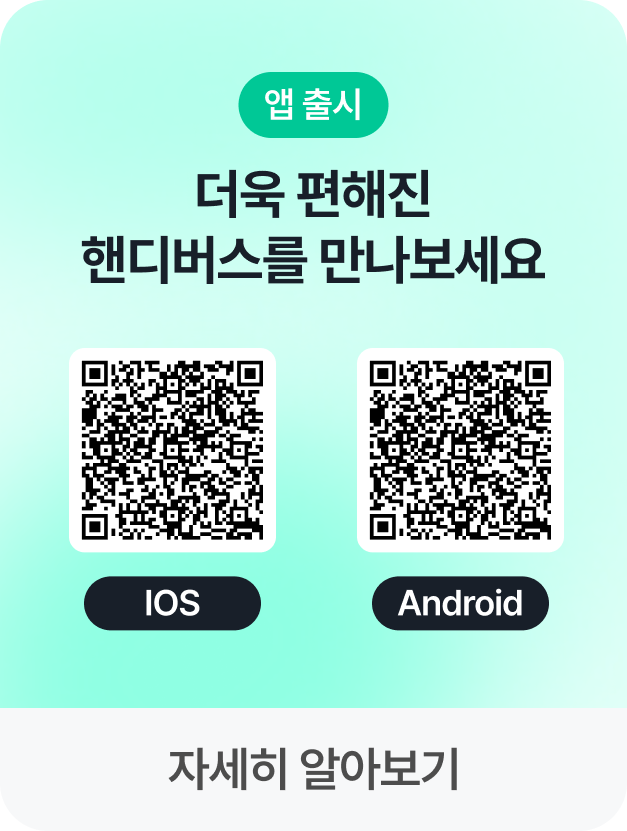
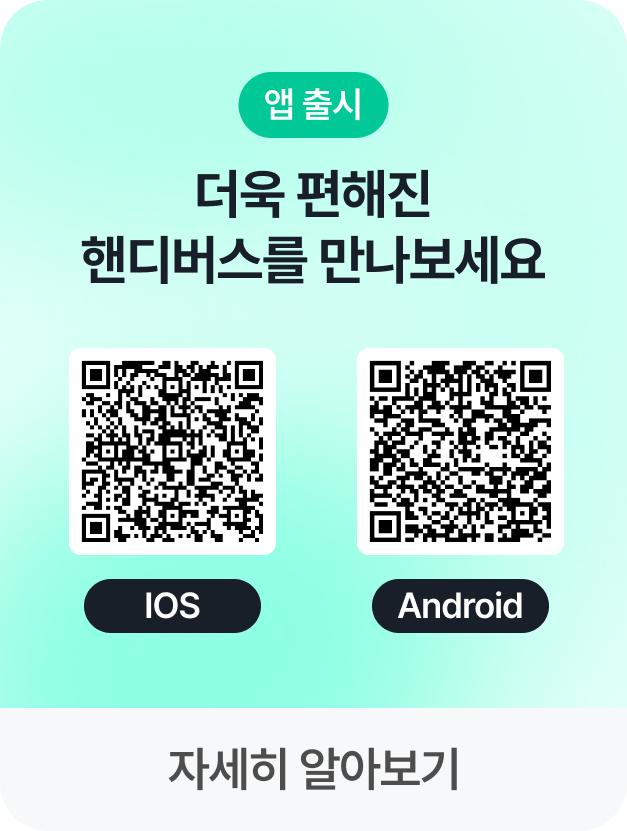
chore: 앱스토어 링크 반영

Changed region(s): [[0.5758, 0.4212, 0.8788, 0.7822], [0.1212, 0.4212, 0.4242, 0.7822]]

diff --git a/src/app/app-launch-event/page.tsx b/src/app/app-launch-event/page.tsx
@@ -19,6 +19,7 @@ import CouponIssuedModal from './components/CouponIssuedModal';
 import { useState } from 'react';
 import MarketingConsentModal from './components/MarketingConsentModal';
 import useAppShare from '@/hooks/webview/useAppShare';
+import { handleExternalLink } from '@/utils/externalLink.util';
 
 const APP_LAUNCH_EVENT_COUPON_CODES = [
   'APP_LAUNCH_EVENT_1',
@@ -99,6 +100,18 @@ const Page = () => {
     toast.success('링크가 복사되었어요.');
   };
 
+  // 앱 다운로드
+  const handleIOSDownload = () => {
+    handleExternalLink(
+      'https://apps.apple.com/us/app/%ED%95%B8%EB%94%94%EB%B2%84%EC%8A%A4/id6751479950',
+    );
+  };
+  const handleAndroidDownload = () => {
+    handleExternalLink(
+      'https://play.google.com/store/apps/details?id=com.handybus.app',
+    );
+  };
+
   return (
     <>
       <Header />
@@ -170,8 +183,8 @@ const Page = () => {
           </div>
         </section>
         <section className="flex flex-col gap-8 p-32">
-          <Button>IOS 다운받기</Button>
-          <Button>안드로이드 다운받기</Button>
+          <Button onClick={handleIOSDownload}>IOS 다운받기</Button>
+          <Button onClick={handleAndroidDownload}>안드로이드 다운받기</Button>
         </section>
       </main>
       <CouponIssuedModal
